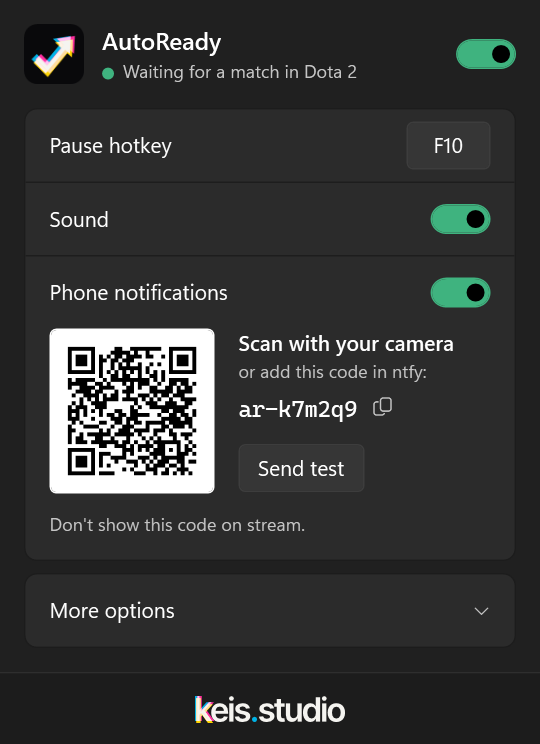
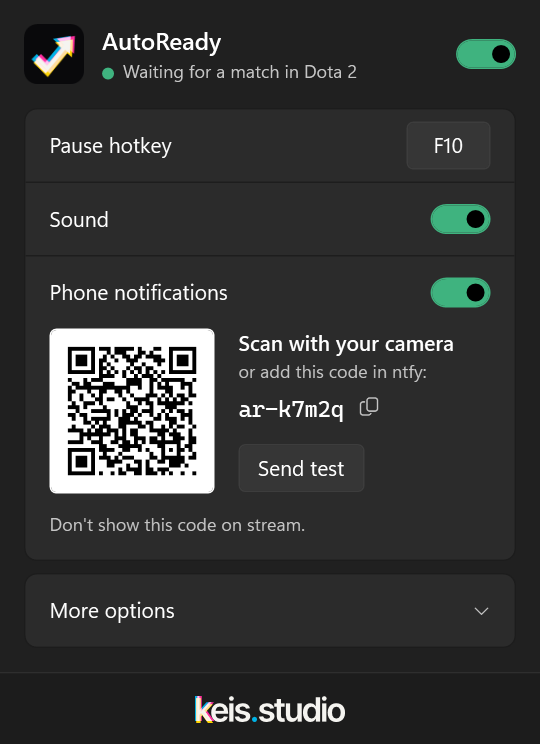
Shorten new phone codes to ar- plus 5 characters
About 28 million combinations: short to type, with roughly a 0.35%
chance of two users sharing a channel at 100k users. Old 8-character
codes keep working. Refresh screenshots.

Changed region(s): [[0.1185, 0.4637, 0.3852, 0.6492], [0.6222, 0.5255, 0.7407, 0.5565]]

diff --git a/docs/phone/index.html b/docs/phone/index.html
@@ -240,9 +240,9 @@
     });
   }
 
-  // El codigo viene despues del # (no se manda a ningun servidor). Formato de AutoReady: ar- y 6 letras o numeros (8 en los codigos viejos).
+  // El codigo viene despues del # (no se manda a ningun servidor). Formato de AutoReady: ar- y 5 letras o numeros (8 en los codigos viejos).
   var topic = decodeURIComponent(location.hash.slice(1)).trim();
-  if (!/^ar-([a-z0-9]{6}|[a-z0-9]{8})$/.test(topic)) { document.getElementById("invalid").hidden = false; return; }
+  if (!/^ar-([a-z0-9]{5}|[a-z0-9]{8})$/.test(topic)) { document.getElementById("invalid").hidden = false; return; }
   document.getElementById("setup").hidden = false;
   [].forEach.call(document.querySelectorAll(".topic"), function (el) { el.textContent = topic; });
 

diff --git a/src/Config.cs b/src/Config.cs
@@ -99,17 +99,18 @@ namespace AutoReady
         }
 
         // Los topics de ntfy.sh son publicos: quien sabe el nombre lo lee. Por eso uno aleatorio por usuario, lo mas corto
-        // posible para escribirlo o pegarlo facil (ar-k7m2q9) y sin letras que se confunden (0/o, 1/l/i).
-        // 6 caracteres de 31 = ~890 millones: aun con 100 mil usuarios, la chance de que a alguien le toque el canal de otro
-        // es de ~0,01 %. Con 5 seria ~0,35 %. Los codigos viejos (ar- y 8 caracteres) siguen valiendo.
+        // posible para escribirlo o pegarlo facil (ar-k7m2q) y sin letras que se confunden (0/o, 1/l/i).
+        // 5 caracteres de 31 = ~28 millones: con 100 mil usuarios, la chance de que a alguien le toque el canal de otro es de
+        // ~0,35 % (los avisos son solo "partida aceptada"). Solo numeros necesitaria 9 digitos para lo mismo.
+        // Los codigos viejos (ar- y 8 caracteres) siguen valiendo.
         static string NewTopic()
         {
             const string alphabet = "abcdefghjkmnpqrstuvwxyz23456789";
-            byte[] rnd = new byte[6];
+            byte[] rnd = new byte[5];
             using (System.Security.Cryptography.RandomNumberGenerator rng = System.Security.Cryptography.RandomNumberGenerator.Create())
                 rng.GetBytes(rnd);
-            char[] chars = new char[6];
-            for (int i = 0; i < 6; i++) chars[i] = alphabet[rnd[i] % alphabet.Length];
+            char[] chars = new char[5];
+            for (int i = 0; i < 5; i++) chars[i] = alphabet[rnd[i] % alphabet.Length];
             return "ar-" + new string(chars);
         }
 

diff --git a/AGENTS.md b/AGENTS.md
@@ -120,7 +120,7 @@ instalar nada. Consecuencias:
 - Todo texto visible va en `Strings.cs` (`S.*`), en español rioplatense (voseo) e inglés; nunca literales en la UI. Los logs quedan en un solo idioma. Textos genéricos: el nombre del juego entra como parámetro.
 
 ## Celular (ntfy)
-- Código aleatorio `ar-xxxxxx` (6 caracteres sin letras ambiguas, ~890 millones; los viejos `ar-xxxxxxxx` siguen valiendo). El QR del panel abre `docs/phone/#<código>`: en Android
+- Código aleatorio `ar-xxxxx` (5 caracteres sin letras ambiguas, ~28 millones; elegido así de corto a propósito; los viejos `ar-xxxxxxxx` siguen valiendo). El QR del panel abre `docs/phone/#<código>`: en Android
   conecta ntfy de un toque y en iPhone es un tutorial con dibujos (instalar, copiar, +, pegar, Subscribe, permitir).
 - La app de ntfy para **iPhone no soporta links ni QR**; en Android funciona `ntfy://ntfy.sh/<código>`. Mejorar esto es #1.
 
